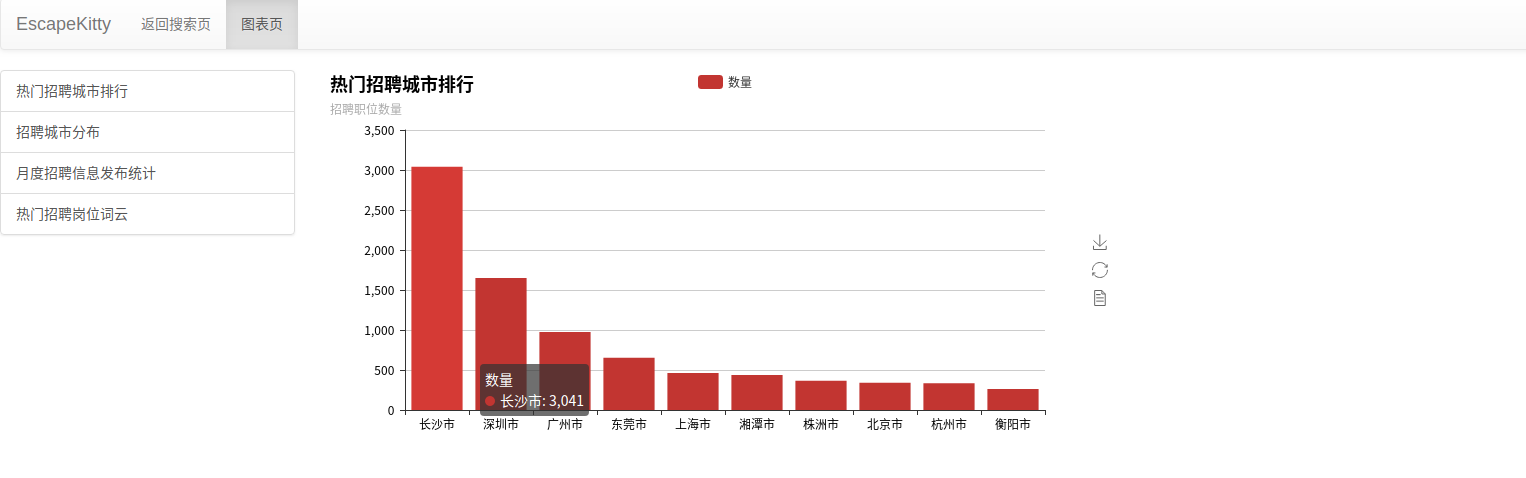
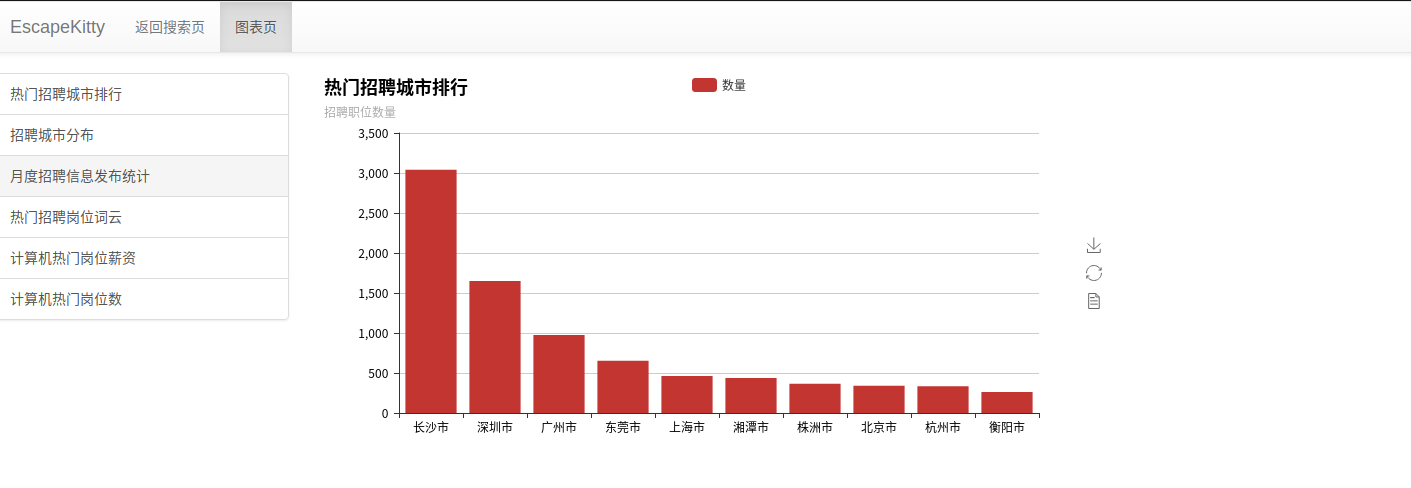
添加计算机相关信息图表

diff --git a/templates/charts.html b/templates/charts.html
@@ -52,6 +52,8 @@
                 <a href="?name=pie" class="list-group-item">招聘城市分布</a>
                 <a href="?name=line" class="list-group-item">月度招聘信息发布统计</a>
                 <a href="?name=word" class="list-group-item">热门招聘岗位词云</a>
+                <a href="?name=com" class="list-group-item">计算机热门岗位薪资</a>
+                <a href="?name=jobs" class="list-group-item">计算机热门岗位数</a>
             </div>
         </div>
         <!--/.sidebar-offcanvas-->

diff --git a/Kitty/charts.py b/Kitty/charts.py
@@ -2,6 +2,7 @@ import MySQLdb
 import MySQLdb.cursors
 from pyecharts import Bar, Pie, Line, WordCloud
 from django_echarts.views.backend import EChartsBackendView
+import collections
 
 db = MySQLdb.connect("localhost", "root", "33Miss77###", "hnjy", charset='utf8')
 
@@ -68,7 +69,7 @@ def get_timelist():
     except:
         pass
     cursor.close()
-    return timelist, nums
+    return timelist[::-1], nums[::-1]
 
 
 def get_wordcloud():
@@ -93,7 +94,65 @@ def get_wordcloud():
     except:
         pass
     cursor.close()
-    return major[::-1], nums[::-1]
+    return major, nums
+
+
+def do_salary(name):
+    sql = """
+        SELECT job_name,  salary ,  COUNT(*)
+        FROM hnust_jobs 
+        GROUP BY job_name,  salary
+        HAVING job_name LIKE "%{0}%"
+    """.format(name)
+    data = collections.OrderedDict()
+    cursor = db.cursor()
+    try:
+        cursor.execute(sql)
+        result = cursor.fetchall()
+        for i in result:
+            temp = i[1]
+            temp = temp.replace("/月", "").replace("K", "")
+            temp = temp.split("-")
+            temp = [int(float(i)) for i in temp]
+            for j in range(2):
+                if temp[j] > 50:
+                    continue
+                if str(temp[j]) in data:
+                    data[str(temp[j])] += i[2]
+                else:
+                    data[str(temp[j])] = i[2]
+    except:
+        pass
+    cursor.close()
+    data = sorted(data.items(), key=lambda item: int(item[0]))
+    salary = [str(k)+"K/月" for k, v in data]
+    nums = [v for k, v in data]
+
+    return salary, nums
+
+
+def do_nums(name):
+    nums = 0
+    sql = """
+        SELECT job_name, COUNT(*)
+        FROM hnust_jobs 
+        GROUP BY job_name
+        HAVING job_name LIKE "%{0}%"
+    """.format(name)
+    data = collections.OrderedDict()
+    cursor = db.cursor()
+    try:
+        cursor.execute(sql)
+        result = cursor.fetchall()
+        for i in result:
+            nums += int(i[1])
+    except:
+        pass
+    cursor.close()
+
+    return nums
+
+
 
 
 def charts(name):
@@ -120,3 +179,24 @@ def charts(name):
         major, nums = get_wordcloud()
         word.add("数量", major, nums, shape="diamond")
         return word
+
+    elif name == "com":
+        com = Line("", "")
+        data = []
+        for name in ["python", "php", "java", "c++", "前端", "后端", "安卓"]:
+            salary, nums = do_salary(name)
+            data.append(salary)
+            com.add(name, salary, nums)
+        return com
+
+    elif name == "jobs":
+        jobs = Bar("", "")
+        names = []
+        nums = []
+        for name in ["python", "php", "java", "c++", "前端", "后端", "安卓"]:
+            num = do_nums(name)
+            names.append(name)
+            nums.append(num)
+        jobs.add("数量", names, nums)
+
+        return jobs
